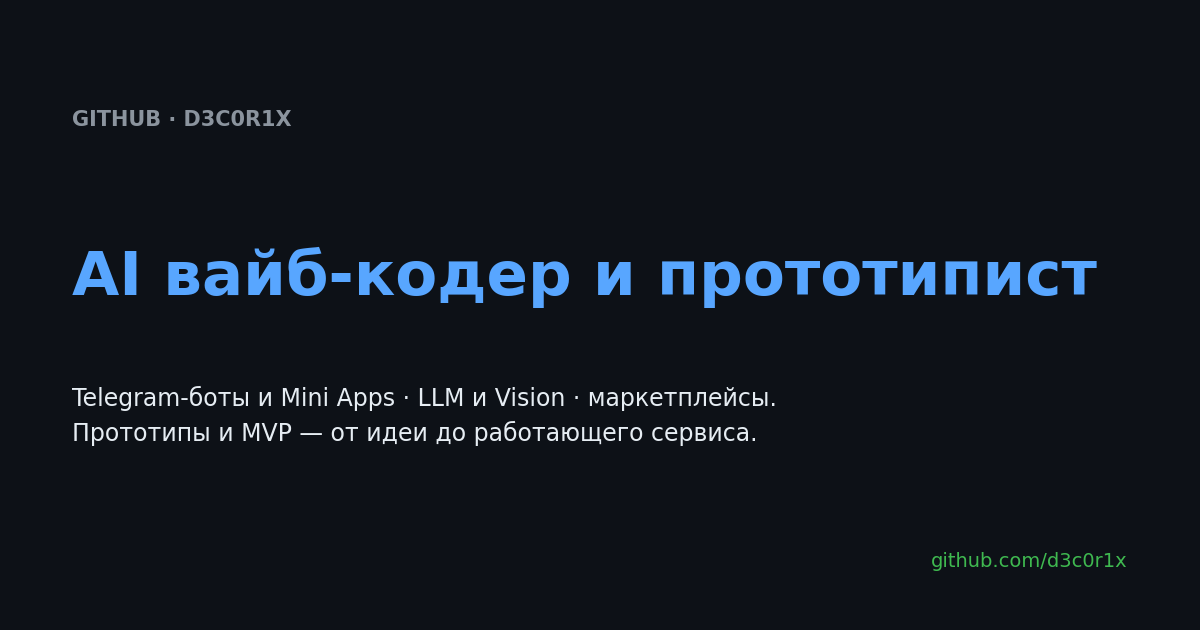
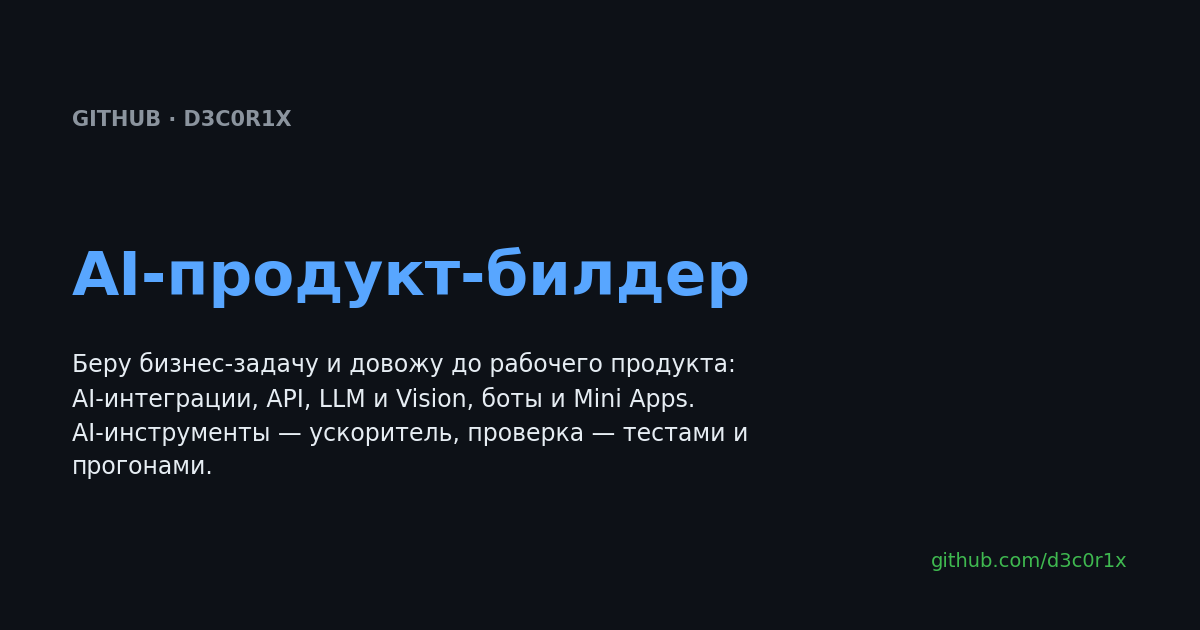
Профиль: в избранное добавлена платформа автоматизации на агентах, превью обновлено
🤖 Generated with Codebuff

Changed region(s): [[0.0617, 0.5429, 0.6475, 0.754], [0.0925, 0.3921, 0.925, 0.4825]]

diff --git a/README.md b/README.md
@@ -57,6 +57,20 @@ receipt readers reconciled by arithmetic, median-based price tracking, honest
 statements of what a report does *not* prove, one owner for every shared number
 so the bot, the weekly digest and the panel can't disagree.
 
+### ⚙ [AI Automation Platform](https://github.com/d3c0r1x/ai-automation-platform)
+
+**An agent that runs the task, not just describes it.** "Find 20 items in
+category X under 5000 ₽, compare them, pick 5, build a table and send it" — the
+platform plans tool calls, validates the plan before running it, executes against
+APIs and a browser, pauses for human approval before anything leaves the machine,
+and returns a report. Every step, argument and decision is visible.
+
+*What it shows:* architecture where the plan is data, execution survives a
+crash, and irreversible steps need a person. FastAPI + PostgreSQL + Redis +
+background workers + pydantic tool schemas + Playwright + React dashboard +
+Docker + CI that also runs the full PostgreSQL+Redis path. Works end-to-end with
+no API keys: the deterministic planner takes over and the report says so.
+
 ## Second tier
 
 | Project | What it covers |
